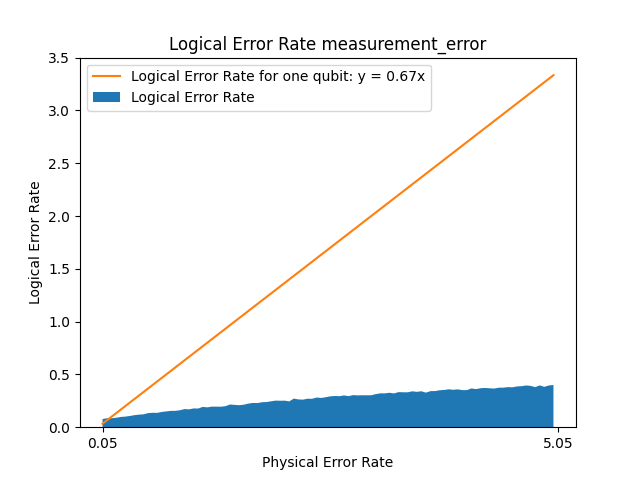
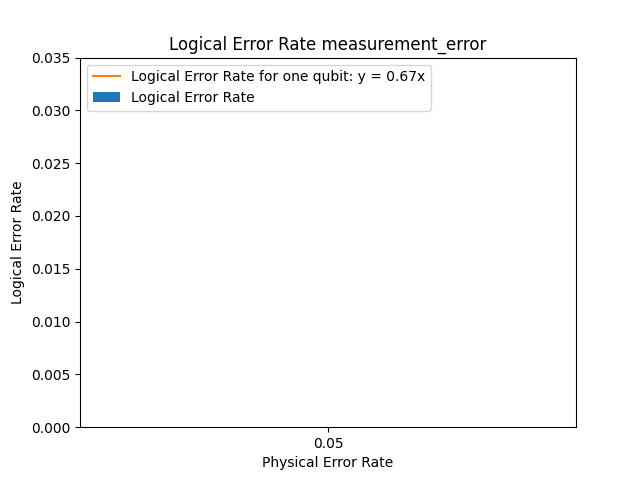
added reset and measure methods in PauliSim

diff --git a/bs13/BS13_PauliSim.py b/bs13/BS13_PauliSim.py
@@ -172,6 +172,10 @@ class BaconShor13():
         self.measurements["Z1Z4Z2Z5Z3Z6"] = self.state[9][0]
         self.measurements["Z4Z7Z5Z8Z6Z9"] = self.state[10][0]     
 
+        # reset ancilla
+        for i in [9, 10, 11 ,12]:
+            self.state[i][0] = 0
+
         self.appliedchannels += sim.getOperations()
 
         return self.measurements
@@ -270,9 +274,14 @@ def SimulateMeasurementError(min_error_rate, max_error_rate, samples, repetition
             # found an error - correct it
             # second state
             bs13.correctError(True)
-            
+
             if LogicalError(bs13):
+                error_list = [operation for operation in bs13.appliedchannels if "err" in operation]
+
+                print(error_list)
+                break
                 logical_error[i] +=1
+                
             else: 
                 no_error[i] += 1
     return x_array, no_error, logical_error
@@ -389,27 +398,27 @@ def v1():
 def v2():
     """Runs Monte Carlo simulation and saves results
     """
-    repetitions = 10000
-    x_tick_number = 100
-    min_error_rate = 0.0005
-    max_error_rate = 0.05
+    repetitions = 10000000
+    x_tick_number = 1
+    min_error_rate = 5e-4
+    max_error_rate = 5.5e-4
     results_path = "./simulation results/"
     mode = "measurement_error"
 
-    # physical_error_rate, no_error, logical_error = SimulateMeasurementError(min_error_rate, max_error_rate, x_tick_number, repetitions, mode)
+    physical_error_rate, no_error, logical_error = SimulateMeasurementError(min_error_rate, max_error_rate, x_tick_number, repetitions, mode)
 
-    # data = np.vstack((physical_error_rate, no_error, logical_error))
-    # data = np.transpose(data)
-    
-    # np.savetxt(f"{results_path}simulation_data_{repetitions}_{x_tick_number}_{min_error_rate}_{max_error_rate}_{mode}.csv", data, delimiter = ",")
-
-
-    data = np.loadtxt(f"{results_path}simulation_data_{repetitions}_{x_tick_number}_{min_error_rate}_{max_error_rate}_{mode}.csv", delimiter = ",")
+    data = np.vstack((physical_error_rate, no_error, logical_error))
     data = np.transpose(data)
+    
+    np.savetxt(f"{results_path}simulation_data_{repetitions}_{x_tick_number}_{min_error_rate}_{max_error_rate}_{mode}.csv", data, delimiter = ",")
 
-    physical_error_rate = data[0]
-    no_error = data[1].astype(np.uint32)
-    logical_error = data[2].astype(np.uint32)
+
+    # data = np.loadtxt(f"{results_path}simulation_data_{repetitions}_{x_tick_number}_{min_error_rate}_{max_error_rate}_{mode}.csv", delimiter = ",")
+    # data = np.transpose(data)
+
+    # physical_error_rate = data[0]
+    # no_error = data[1].astype(np.uint32)
+    # logical_error = data[2].astype(np.uint32)
 
     # now = dt.datetime.now()
     plots_path = "./plots/"
@@ -418,7 +427,7 @@ def v2():
     labels = [
         "Logical Error Rate"
         ]
-    ax.stackplot(physical_error_rate*100, logical_error/repetitions,
+    ax.stackplot(physical_error_rate*100, logical_error/repetitions*100,
                 labels= labels)
     ax.plot(physical_error_rate*100,physical_error_rate*expected_logical_error_rate, label = f"Logical Error Rate for one qubit: y = {round(expected_logical_error_rate/100,2)}x")
     ax.legend(loc='upper left')

diff --git a/bs13/PauliSim.py b/bs13/PauliSim.py
@@ -20,6 +20,7 @@ class PauliSim():
         else:
             self.state = np.array(np.zeros(2*size).reshape(size,2), dtype = bool)
         self.operations = []
+        self.measurements = {}
 
     def execute(self):
         """Applies all the operations in the operation list to the error state
@@ -33,6 +34,16 @@ class PauliSim():
 
     # def add(self, operation):
     #     self.operations.append(operation)
+
+    def addReset(self, target):
+        channel = Gates(False, target = target)
+        channel.Reset()
+        self.operations.append(channel)
+    
+    def addMeasurement(self, target, key):
+        channel = Gates(False, target = target)
+        channel.Measure(key, self.measurements)
+        self.operations.append(channel)
 
     def addDepolarizingNoise(self, qubits, p, number):
         """Adds depolarizing noise channel to one or two qubits
@@ -181,6 +192,16 @@ class BaseChannel():
     def __str__(self):
         return self.str
 
+    def reset(self,state):
+        """Resets both X and Z bits to 0
+
+        Args:
+            state (numpy arr (bool)): error matrix of PauliSim
+        """
+        state[self.target][0] = False
+        state[self.target][1] = False
+
+
     def Xchannel(self, state):
         """Pauli X channel
 
@@ -225,6 +246,20 @@ class Gates(BaseChannel):
         """
         super().__init__(False, target)
         self.control = control 
+
+    def Reset(self):
+        """Sets gate to Reset and updates the gate string
+        """
+        self.gate = self.Reset
+        self.str = "Reset({self.target})"
+
+    def Measure(self, key, dict):
+
+        def measure(state):
+            dict["key"] = state[self.target][0]
+        self.gate = measure
+        self.str = "M({key})"
+
 
     def I(self):
         """Sets gate to Identity gate and updates the gate string
@@ -376,17 +411,17 @@ class DepolarizingNoise(BaseChannel):
                     gate = Gates(qubit)
                     gate.X()
                     self.gate_list.append(gate)
-                    self.str += " Xerr("+str(i)+")"
+                    self.str += " Xerr("+str(qubit)+")"
                 elif error_string[i] == "Y":
                     gate = Gates(qubit)
                     gate.Y()
                     self.gate_list.append(gate)
-                    self.str += " Yerr("+str(i)+")"
+                    self.str += " Yerr("+str(qubit)+")"
                 elif  error_string[i] == "Z":
                     gate = Gates(qubit)
                     gate.Z()
                     self.gate_list.append(gate)
-                    self.str += " Zerr("+str(i)+")"
+                    self.str += " Zerr("+str(qubit)+")"
                 else:
                     self.str +=" I({})".format(qubit)
             else: 
